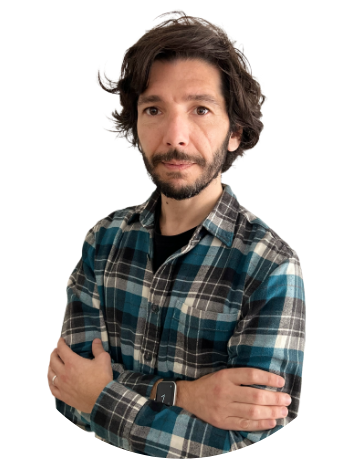
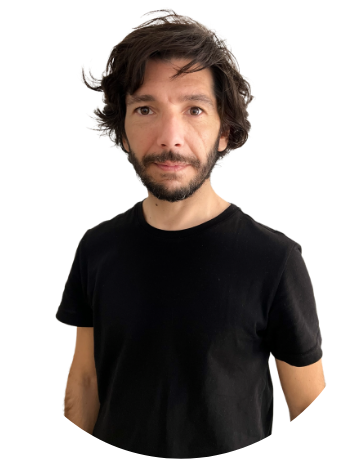
Agregada la foto nueva de Agus y cambios en ourvalues mobile

diff --git a/index.html b/index.html
@@ -298,9 +298,14 @@
           <div class="our-values-red">
             <h2>OUR VALUES</h2>
             <p>
-              Our Values shape our culture from the beginning, and act as our
-              guiding light, ensuring we speak and act consistently across our
-              business at all times.
+              Our values <br/>
+              shape our culture <br/>
+              from the beginning, <br/>
+              and act as our guiding light, <br/>
+              ensuring we speak and <br/>
+              act consistently <br/>
+              across our business <br/>
+              at all times.<br/>
             </p>
           </div>
           <!-- Swiper -->
@@ -309,44 +314,83 @@
               <div id="value-1" class="values-item tiny-red-circle swiper-slide">
                 <h3>EXPERTISE</h3>
                 <p class="italic">Know your work</p>
-                <p>
+                <p class="desktop-values-text">
                   We have years of experience in solving software-world issues. We
                   achieve mastery in our work, embrace challenges and deliver results.
+                </p>
+                <p class="mobile-values-text">
+                  We have years <br/>
+                  of experience in solving <br/>
+                  software-world issues. <br/>
+                  We achieve mastery <br/>
+                  in our work, <br/>
+                  embrace challenges and <br/>
+                  deliver results.<br/>
                 </p>
               </div>
               <div id="value-2" class="values-item tiny-red-circle swiper-slide">
                 <h3>INTEGRITY</h3>
                 <p class="italic">Do the right thing</p>
-                <p>
+                <p class="desktop-values-text">
                   We are truthful and ethical, we follow through on commitments, and
                   learn from mistakes.
+                </p>
+                <p class="mobile-values-text">
+                  We are truthful <br/>
+                  and ethical, <br/>
+                  we follow through <br/>
+                  on commitments, <br/>
+                  and learn from mistakes.<br/>
                 </p>
               </div>
               <div id="value-3" class="values-item tiny-red-circle swiper-slide">
                 <h3>KINDNESS</h3>
                 <p class="italic">Support the people</p>
-                <p>
+                <p class="desktop-values-text">
                   We are genuinely interested in making a positive impact on our team,
                   our clients, and the communities in which we live and work.
+                </p>
+                <p class="mobile-values-text">
+                  We are genuinely interested <br/>
+                  in making a positive impact <br/>              
+                  on our team, <br/>    
+                  our clients, and <br/>               
+                  on the communities <br/>
+                  in which we live and work.<br/>
                 </p>
               </div>
               <div id="value-4" class="values-item tiny-red-circle swiper-slide">
                 <h3>FAMILY</h3>
                 <p class="italic">Personal relationships matter</p>
-                <p>
+                <p class="desktop-values-text">
                   We are committed and work hard while also giving priority to our
                   families, friends, and health.
+                </p>
+                <p class="mobile-values-text">
+                  We are committed <br/>
+                  and work hard <br/>            
+                  while also giving priority <br/>                  
+                  to our families, <br/>                  
+                  friends, and <br/>                
+                  health. <br/>
                 </p>
               </div>
               <div id="value-5" class="values-item tiny-red-circle swiper-slide">
                 <h3>SIMPLICITY</h3>
                 <p class="italic">Strive for clarity and consistency</p>
-                <p>We make swift, informed decisions focusing on what’s essential.</p>
+                <p class="desktop-values-text">We make swift, informed decisions focusing on what’s essential.</p>
+                <p class="mobile-values-text">
+                  We make swift, <br/>
+                  informed decisions <br/>                  
+                  focusing on <br/>                 
+                  what’s essential. <br/>
+                </p>
               </div>
             </div>
             <div id="id-red-paginator" class="red-paginator swiper-pagination"></div>
           </div>
         </div>
+        <div class="red-circle"><div class="the-red-circle"></div></div>
       </section>
       <div class="imagen-marte"></div>
       <section id="contact" class="contact-us">

diff --git a/styles/320.css b/styles/320.css
@@ -568,32 +568,15 @@ header {
 /*----------------------- OUR VALUES ----------------------*/
 
 #our-values {
-  display: flex;
-  justify-content: center;
+  margin: 80px auto 190px;
 }
 
 .our-values {
-  margin: 100px auto 220px;
+  margin: 0 auto;
   position: relative;
-  /* display: flex; */
-  align-items: flex-start;
+  display: flex;
+  flex-flow: column nowrap;
   justify-content: center;
-}
-
-.our-values::before {
-  content: "";
-  width: 600px;
-  height: 600px;
-  border-radius: 50%;
-  background-color: var(--rojo);
-  position: absolute;
-  top: -50px;
-  left: -290px;
-  z-index: -1;
-}
-
-.our-values-red {
-  margin-right: 20%;
 }
 
 .our-values-red h2 {
@@ -604,17 +587,11 @@ header {
   font-size: 16px;
   padding: 10px 10px 35px 10px;
   display: inline-block;
+  margin-right: auto;
 }
 
 .our-values-red p {
-  font-family: "GOTHAM-LIGHT";
-  font-size: 16px;
-  line-height: 22px;
-  color: #ffffff;
-  padding: 20px;
   display: none;
-  max-width: 400px;
-  text-align: right;
 }
 
 .values {
@@ -622,7 +599,6 @@ header {
   color: white;
   max-width: 270px;
   text-align: center;
-  display: inline-block;
 }
 
 .values-container {
@@ -631,9 +607,20 @@ header {
 
 .values-container h3{
   font-family: "GOTHAM-MEDIUM";
-  font-size: 15px;
-  margin-bottom: 20px;
+  font-size: 22px;
+  letter-spacing: 3px;
+  margin-bottom: 7px;
   text-align: left;
+}
+
+.italic {
+  font-style: italic;
+  margin-bottom: 10px;
+}
+
+.values-item {
+  padding: 0 20px;
+  margin-bottom: 10px;
 }
 
 .values-item p{
@@ -644,12 +631,43 @@ header {
 }
 
 .red-paginator {
-  margin: 40px auto 10px;
+  margin: 30px auto 10px;
   display: inline-block;
 }
 
 .swiper-pagination-bullet-active {
   background-color: white !important;
+}
+
+.red-circle {
+  display: flex;
+  justify-content: center;
+  position: relative;
+  margin: 0 auto;
+  width: 100%;
+}
+
+.the-red-circle {
+  display: inline-block;
+  position: relative;
+  margin: 0 auto;
+  width: 300px;
+}
+
+.the-red-circle::before {
+  content: "";
+  align-self: center;
+  display: inline-block;
+  margin-right: auto;
+  margin-left: auto;
+  width: 600px;
+  height: 600px;
+  border-radius: 50%;
+  background-color: var(--rojo);
+  position: absolute;
+  top: -470px;
+  left: -290px;
+  z-index: -1;
 }
 
 /*---------------------- IMAGEN MARTE ----------------------*/

diff --git a/js/javascript.js b/js/javascript.js
@@ -22,6 +22,8 @@ const $member1Circle = d.querySelector(".member1-circle");
 const $member2Circle = d.querySelector(".member2-circle");
 const $member3Circle = d.querySelector(".member3-circle");
 const $changeMember = d.querySelectorAll(".go-to-bios");
+const $mobileTexts = d.querySelectorAll(".mobile-values-text");
+const $desktopTexts = d.querySelectorAll(".desktop-values-text");
 
 function disable_scroll() {
   d.ontouchmove = function (e) {
@@ -222,3 +224,23 @@ const responsiveContent = (mediaquery) => {
 };
 mediaQuery.addListener(responsiveContent);
 responsiveContent(mediaQuery);
+
+const responsiveValueText = (mediaquery) => {
+  if (mediaquery.matches) {
+    $mobileTexts.forEach((text) => {
+      text.style.setProperty("display", "none");
+    });
+    $desktopTexts.forEach((text) => {
+      text.style.removeProperty("display", "none");
+    });
+  } else {
+    $mobileTexts.forEach((text) => {
+      text.style.removeProperty("display", "none");
+    });
+    $desktopTexts.forEach((text) => {
+      text.style.setProperty("display", "none");
+    });
+  }
+};
+
+responsiveValueText(mediaQuery);
